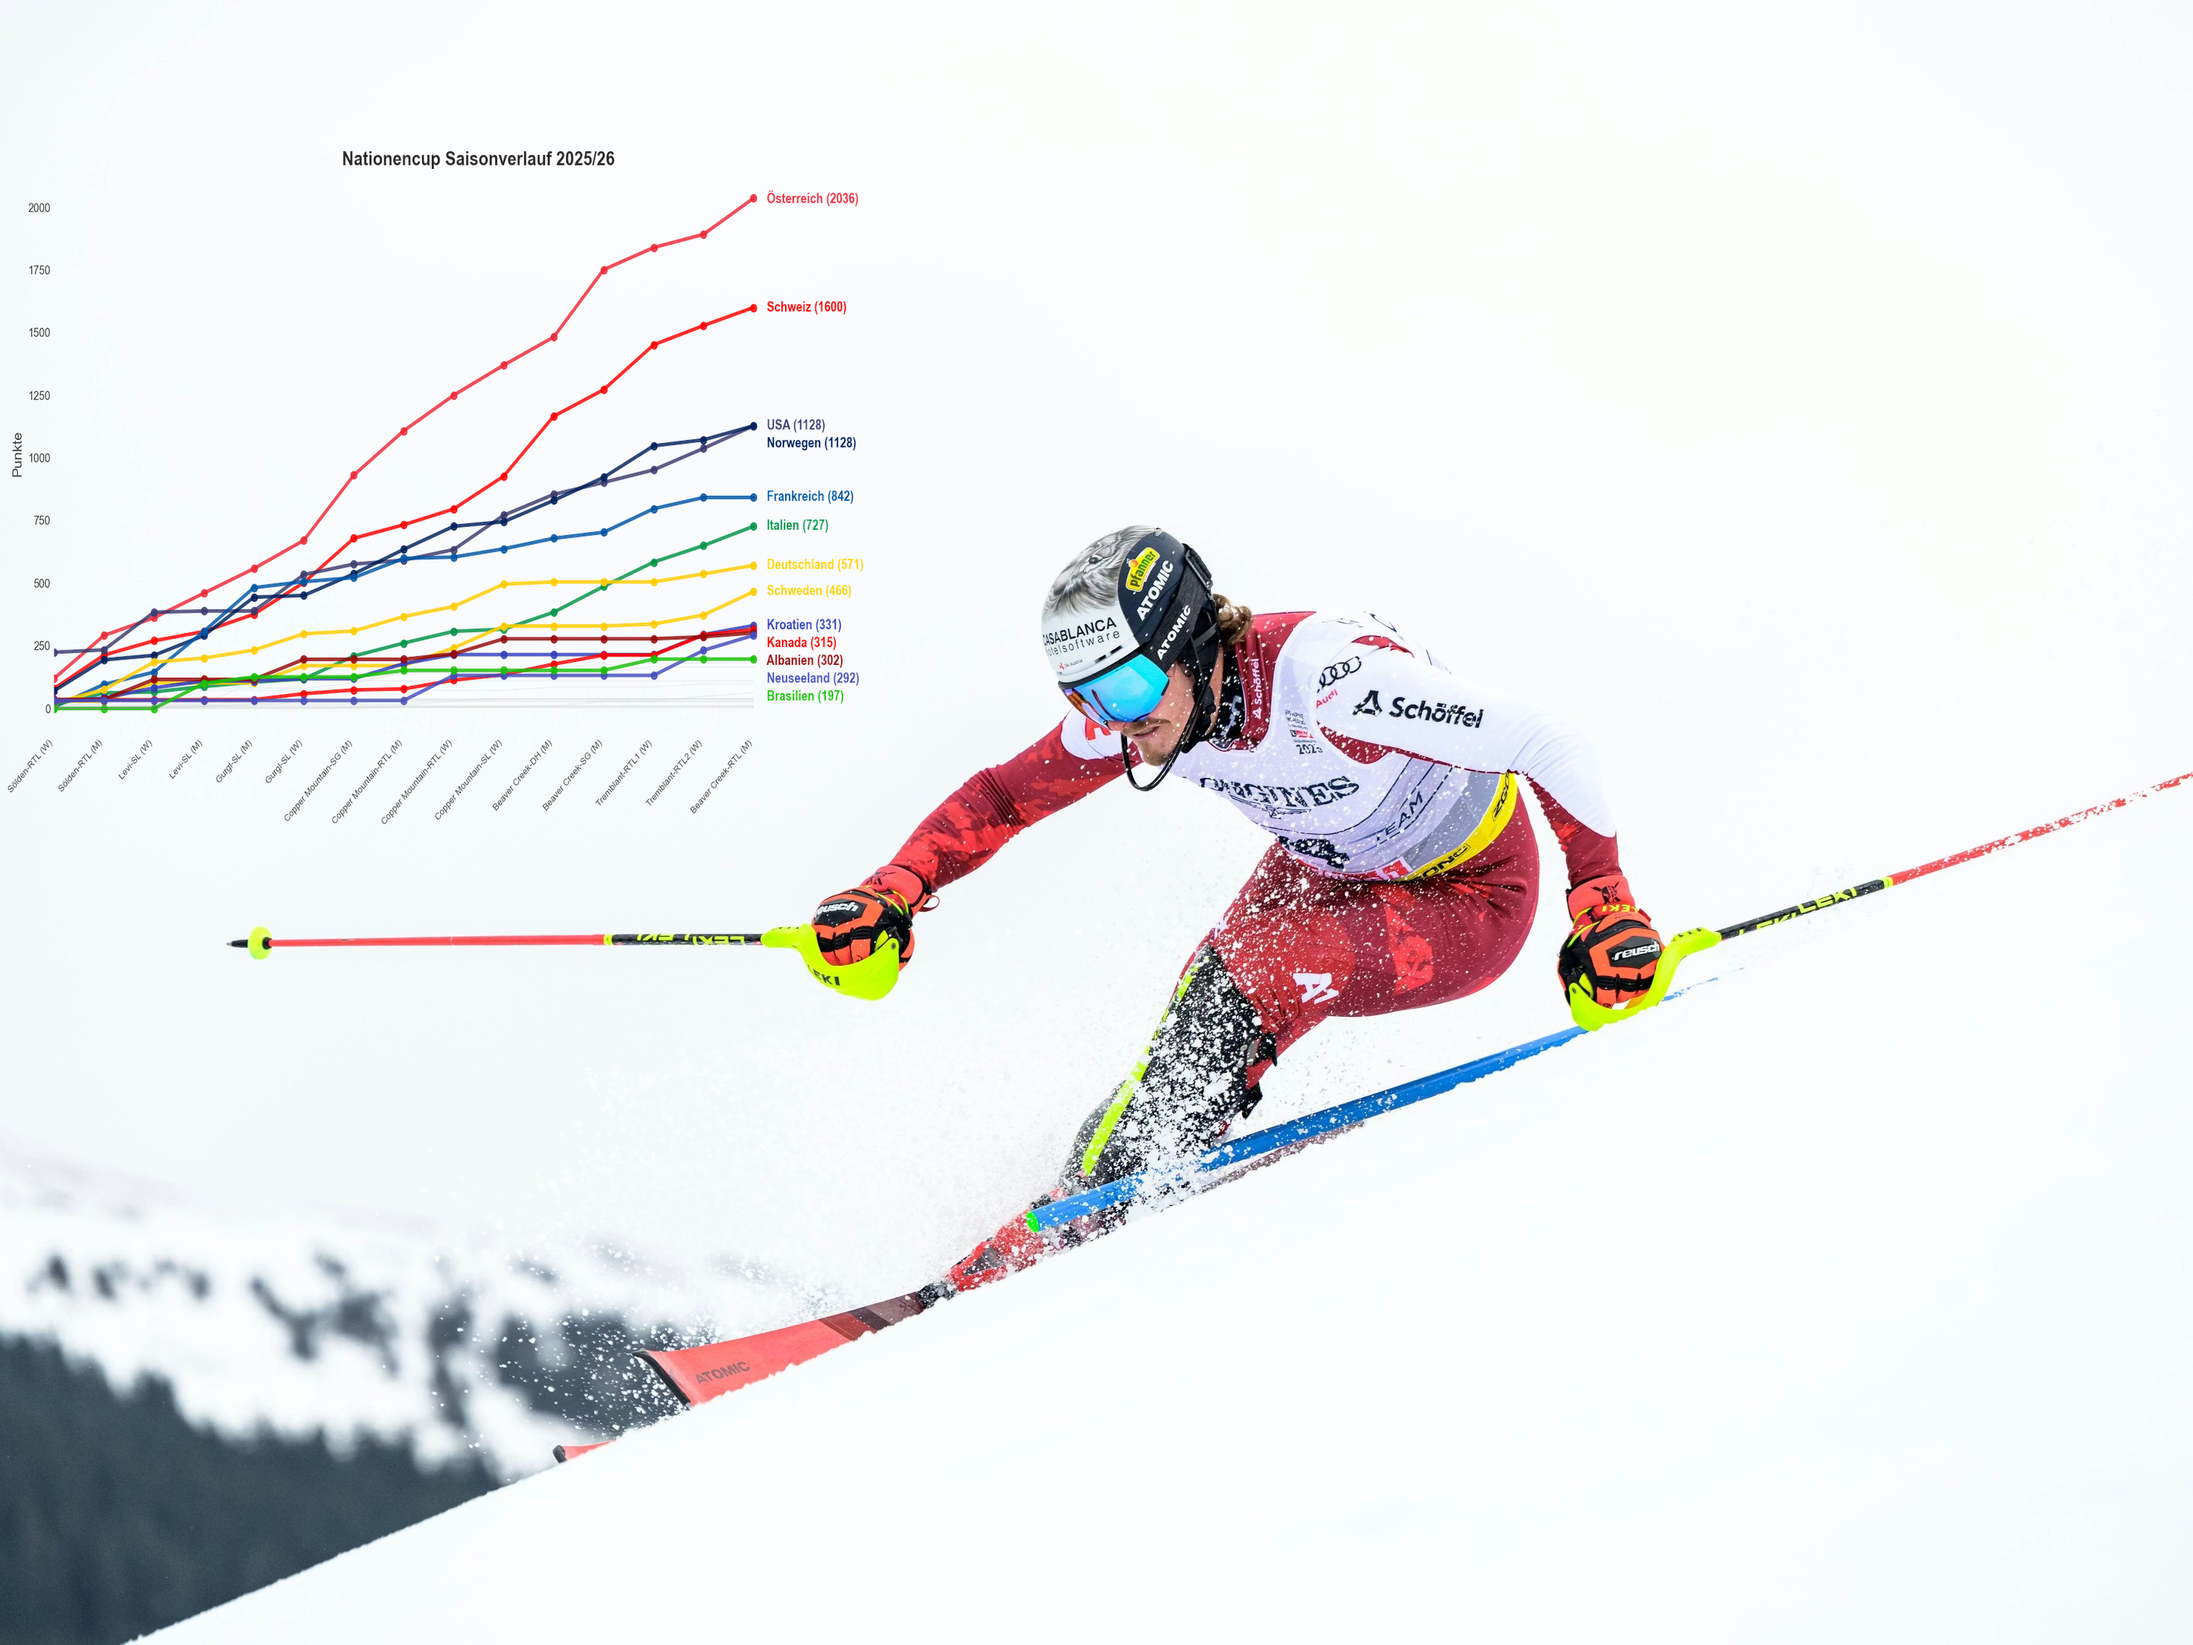
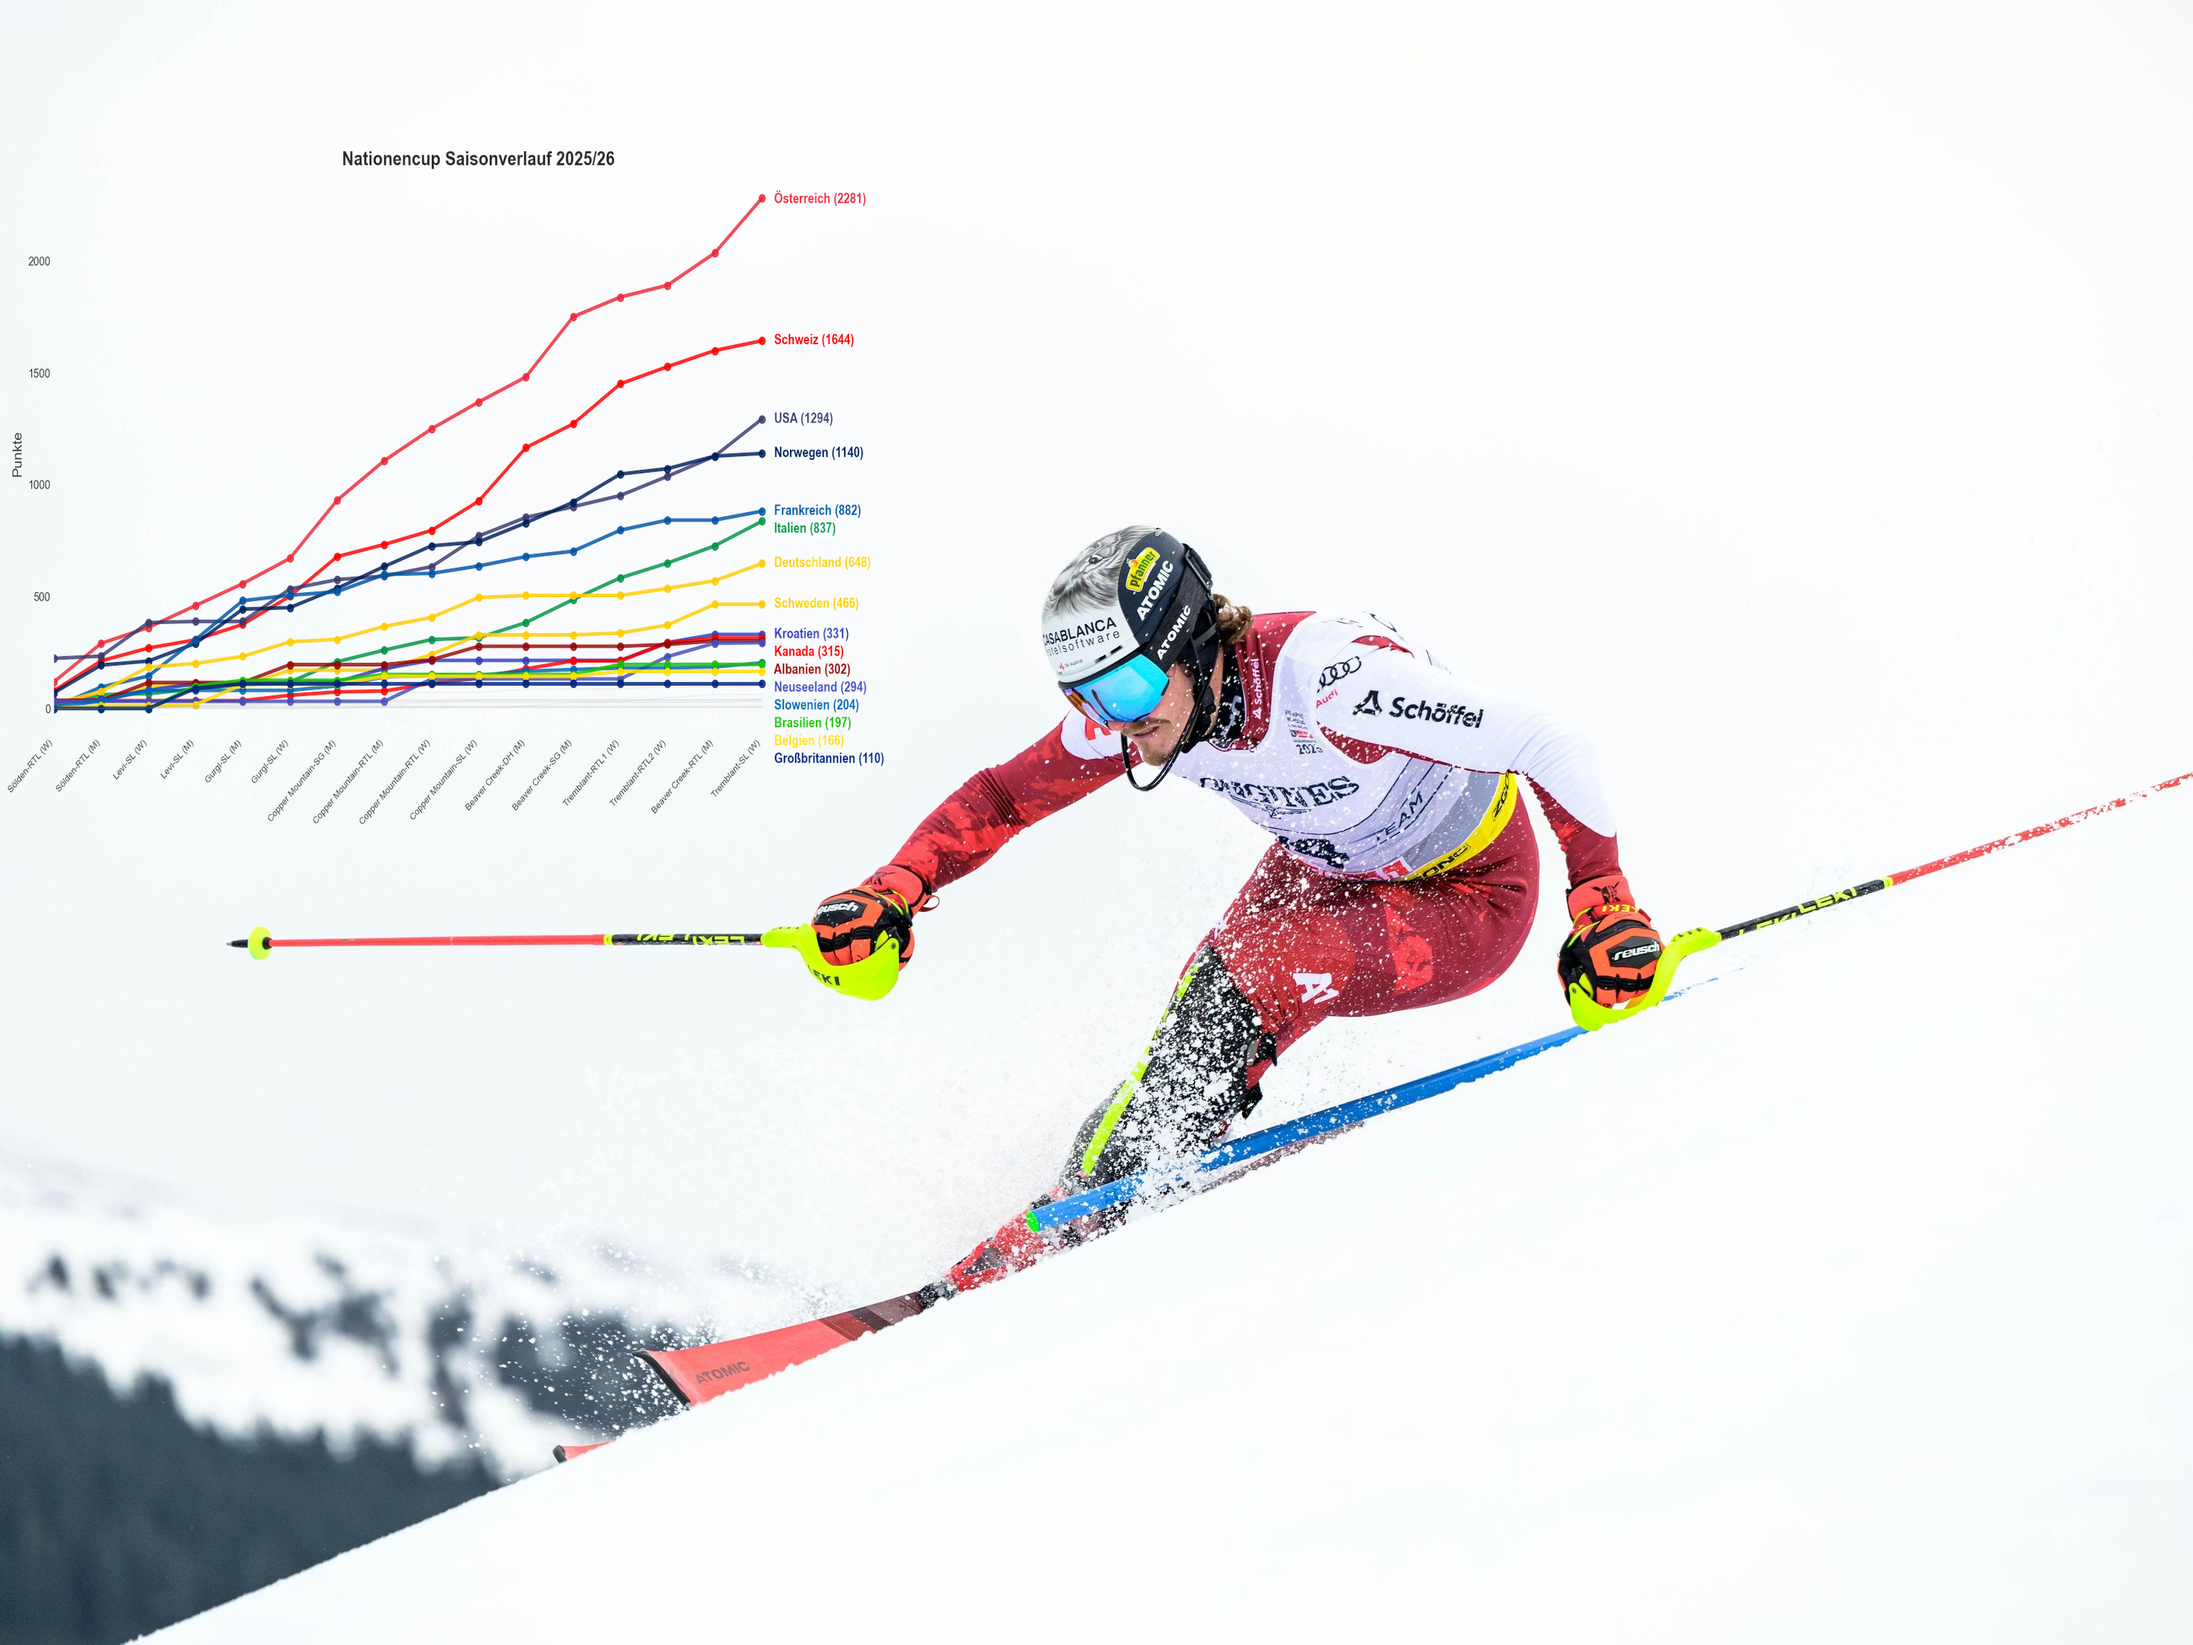
Einige kleine Sachen ändern. Neues Rennen.

diff --git a/ski_nationencup_25-26.py b/ski_nationencup_25-26.py
@@ -41,8 +41,12 @@ NATION_COLORS = {
     "Albanien": "#960909",
     "Neuseeland": "#454EBA", 
     "Brasilien": "#17C005", 
+    "Slowenien": "#0066B2",
+    "Belgien": "#FFDD00",
+    "Großbritannien": "#00247D"
 }
 
+# Falls eine ID fehlt, zeigt der Code automatisch die Nummer an
 RACE_ID_TO_NAME = {
     "127331": "Sölden-RTL (W)",
     "127332": "Sölden-RTL (M)",
@@ -58,12 +62,12 @@ RACE_ID_TO_NAME = {
     "127341": "Beaver Creek-SG (M)",
     "127342": "Tremblant-RTL1 (W)",
     "127343": "Tremblant-RTL2 (W)",
-    "127344": "Beaver Creek-RTL (M)"
-    # Falls eine ID fehlt, zeigt der Code automatisch die Nummer an
+    "127344": "Beaver Creek-RTL (M)",
+    "127347": "Tremblant-SL (W)"
 }
 
 # Liste der Nationen, die beschriftet werden sollen (Namen müssen zum Mapping oben passen)
-wichtige = ["Österreich", "Schweiz", "Norwegen", "Frankreich", "USA", "Deutschland", "Italien", "Schweden", "Kroatien", "Kanada", "Albanien", "Neuseeland", "Brasilien"]
+wichtige = ["Österreich", "Schweiz", "Norwegen", "Frankreich", "USA", "Deutschland", "Italien", "Schweden", "Kroatien", "Kanada", "Albanien", "Neuseeland", "Brasilien", "Slowenien", "Belgien", "Großbritannien"]
 
 def update_wallpaper():
     # print("Lese Excel Daten...", end="")

diff --git a/scraper.py b/scraper.py
@@ -24,8 +24,10 @@ season_results_list = []
 season_races = [
     127331, 127332, 127333, 127334, 127335, 127336,
     127440, 127441, 127442, 127443,
-    127340, 127341, 127342, 127343, 127344, 
+    127340, 127341, 127342, 127343, 127344, 127347
 ]
+# Link für die FIS-Seite zum schnelleren Suchen und Hinzufügen neuer IDs: 
+# https://www.fis-ski.com/DB/alpine-skiing/calendar-results.html?eventselection=&place=&sectorcode=AL&seasoncode=2026&categorycode=WC&disciplinecode=&gendercode=&racedate=&racecodex=&nationcode=&seasonmonth=X-2026&saveselection=-1&seasonselection=
 
 print("Starte Scraping pro Rennen mit strenger Punkte-Filterung...")
 
